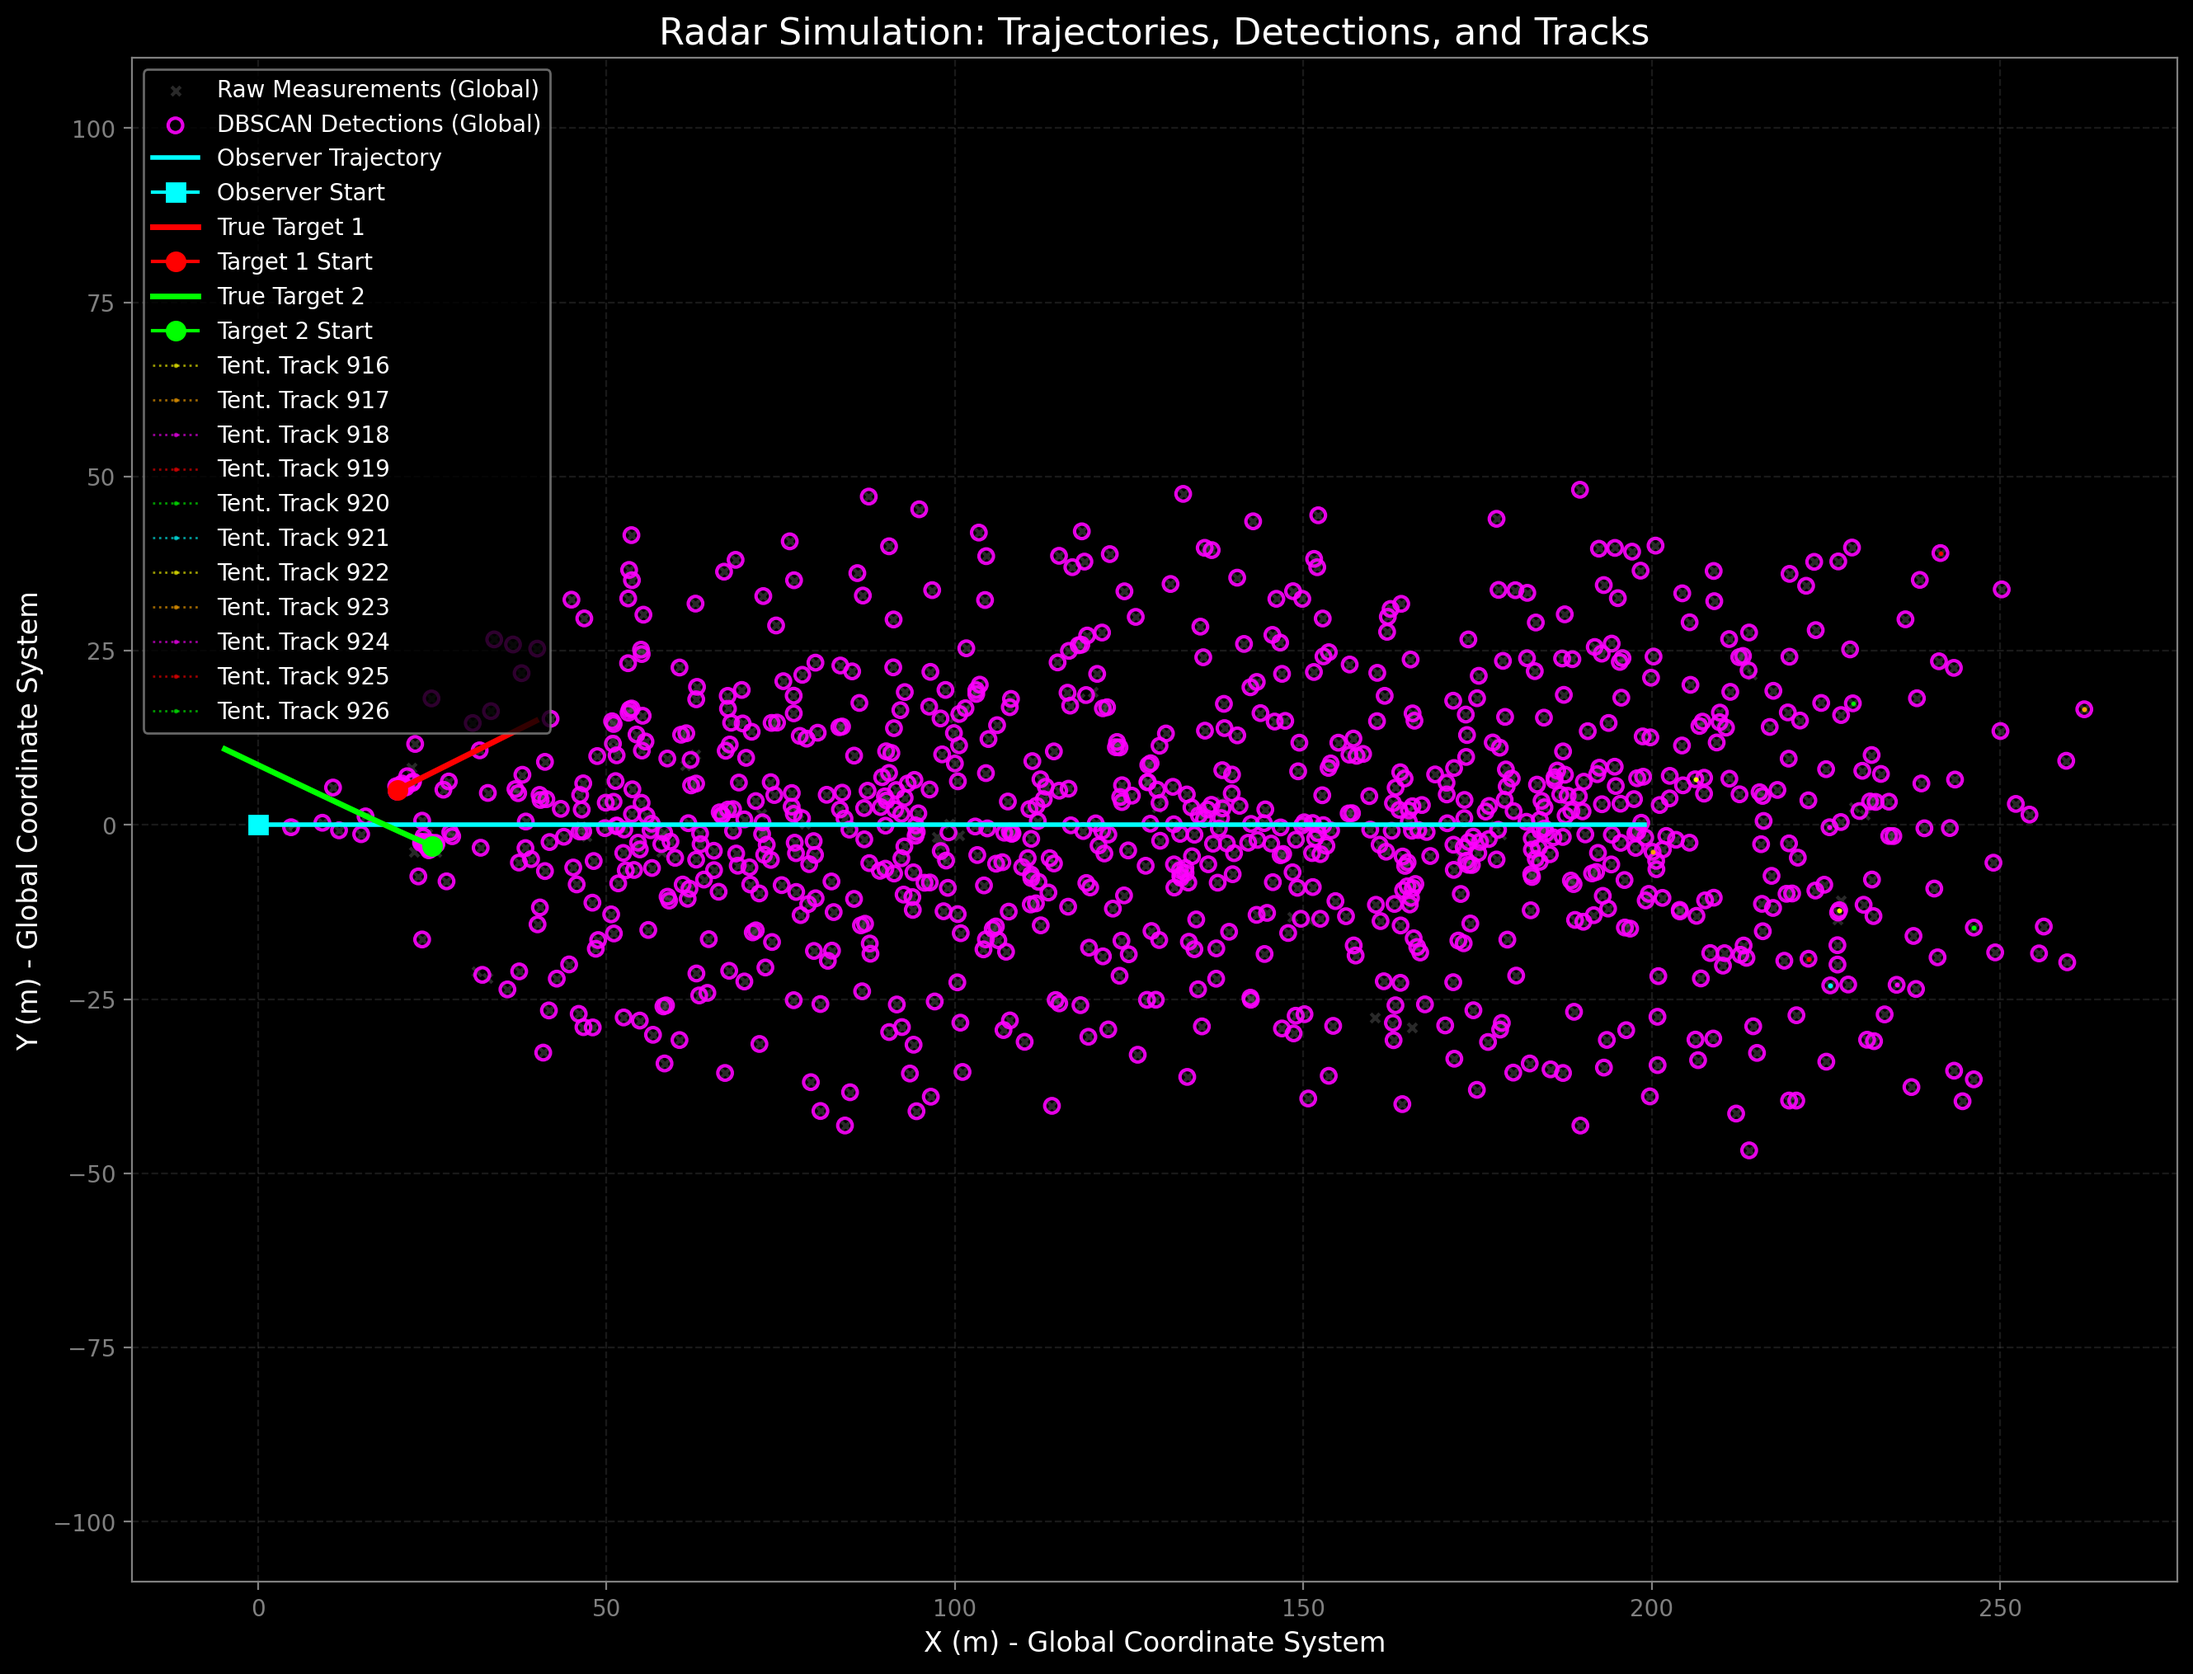
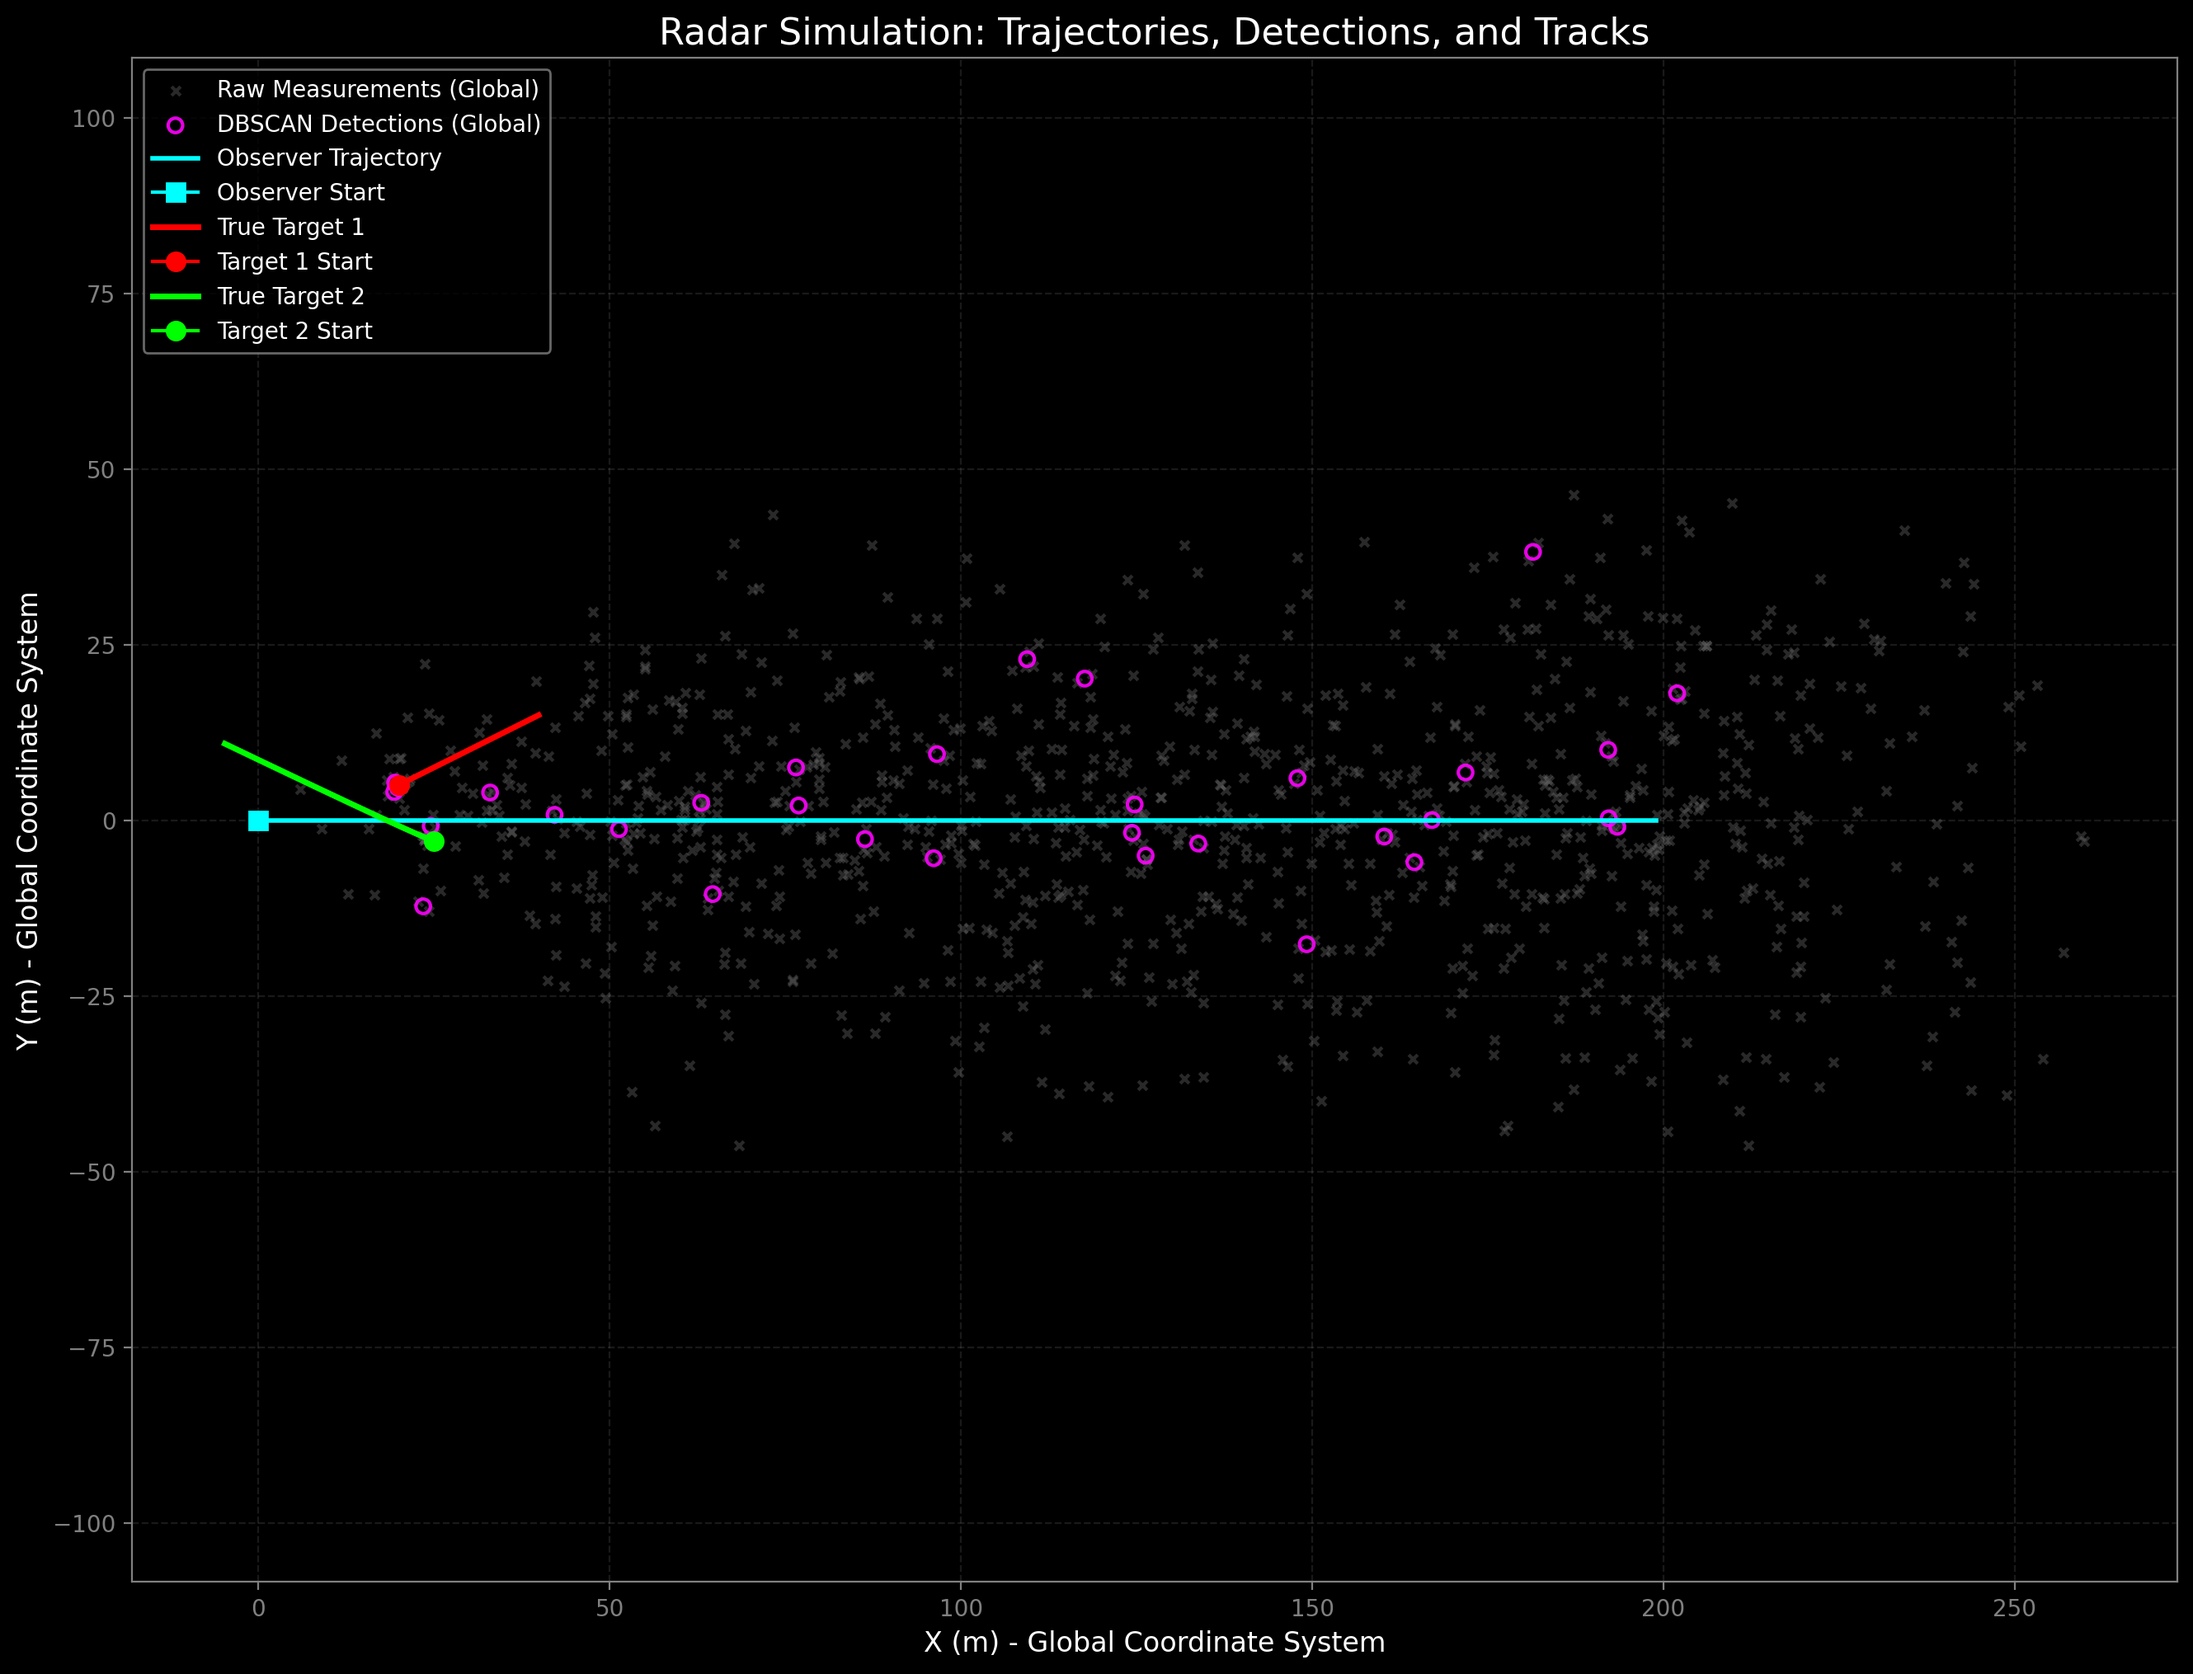
2025-06-21 23:19:14

diff --git a/modules/visualizer.py b/modules/visualizer.py
@@ -110,4 +110,4 @@ def plot_results(observer_trajectory, true_target_trajectories,
     plot_path = os.path.join(cfg.OUTPUT_PLOTS_DIR, "final_tracking_result.png")
     plt.savefig(plot_path, facecolor='black', dpi=200, bbox_inches='tight')
     print(f"\nFinal plot saved to: {plot_path}")
-    # plt.show()
+    # plt.show() 

diff --git a/config.py b/config.py
@@ -41,7 +41,7 @@ R_MEASUREMENT = np.diag([SIGMA_RANGE**2, np.deg2rad(SIGMA_AZIMUTH_DEG)**2, SIGMA
 
 # --- 检测器参数 (DBSCAN) ---
 DBSCAN_EPS = 3.0
-DBSCAN_MIN_SAMPLES = 1
+DBSCAN_MIN_SAMPLES = 2
 
 # --- 跟踪器参数 ---
 GATING_THRESHOLD_EUCLIDEAN = 5.0
